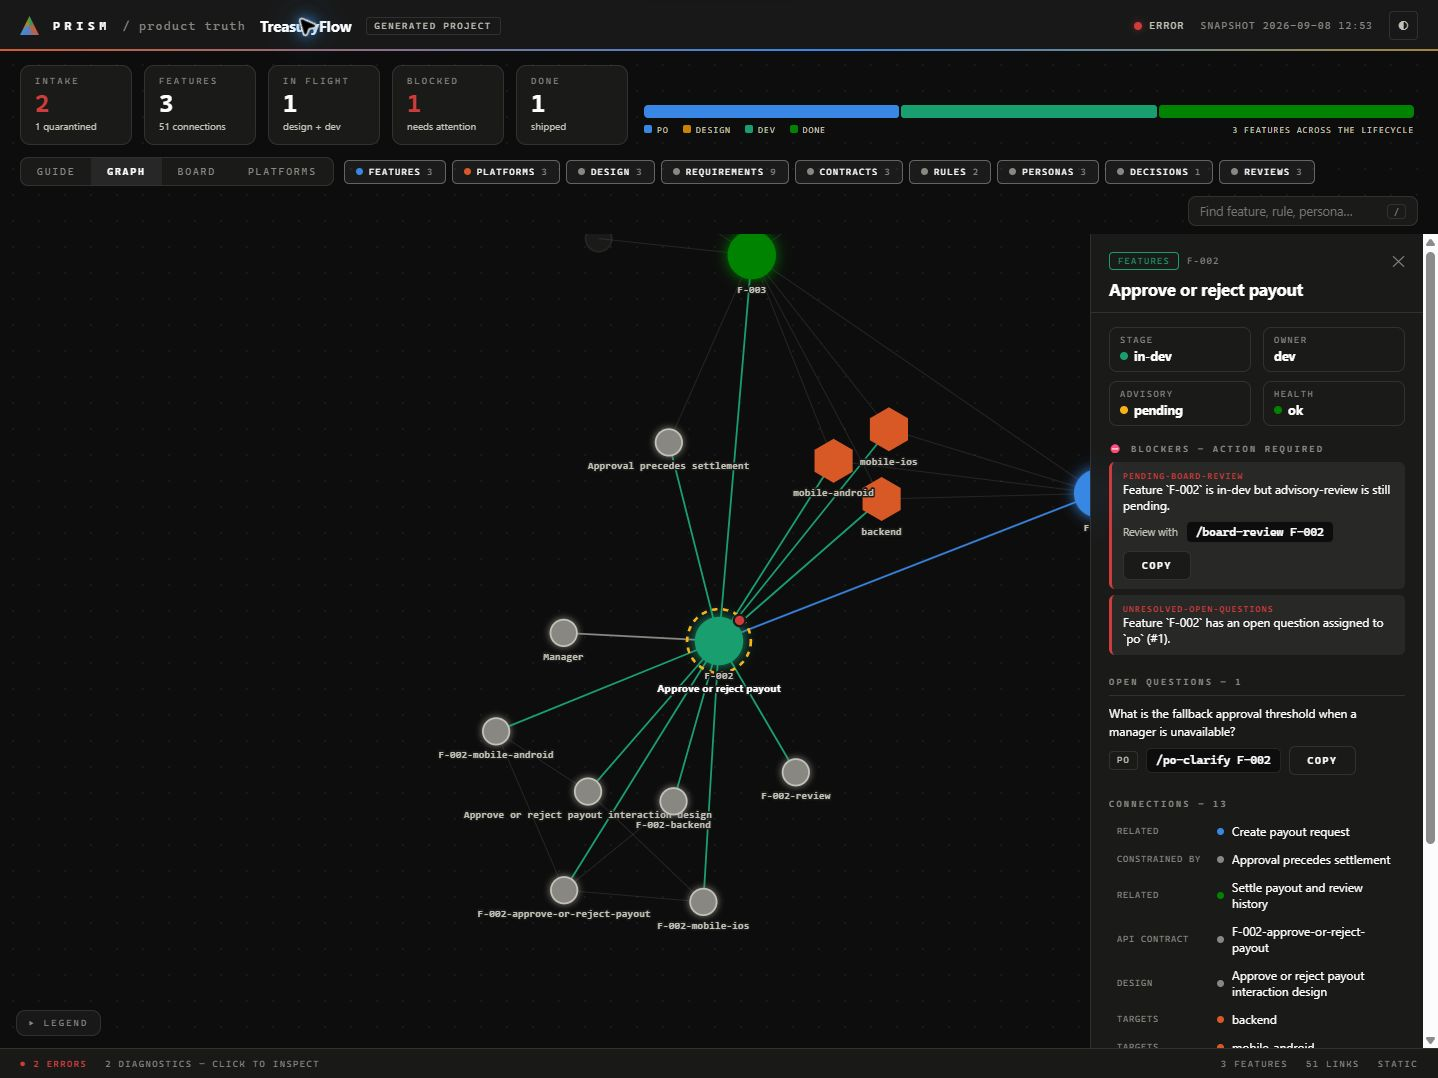
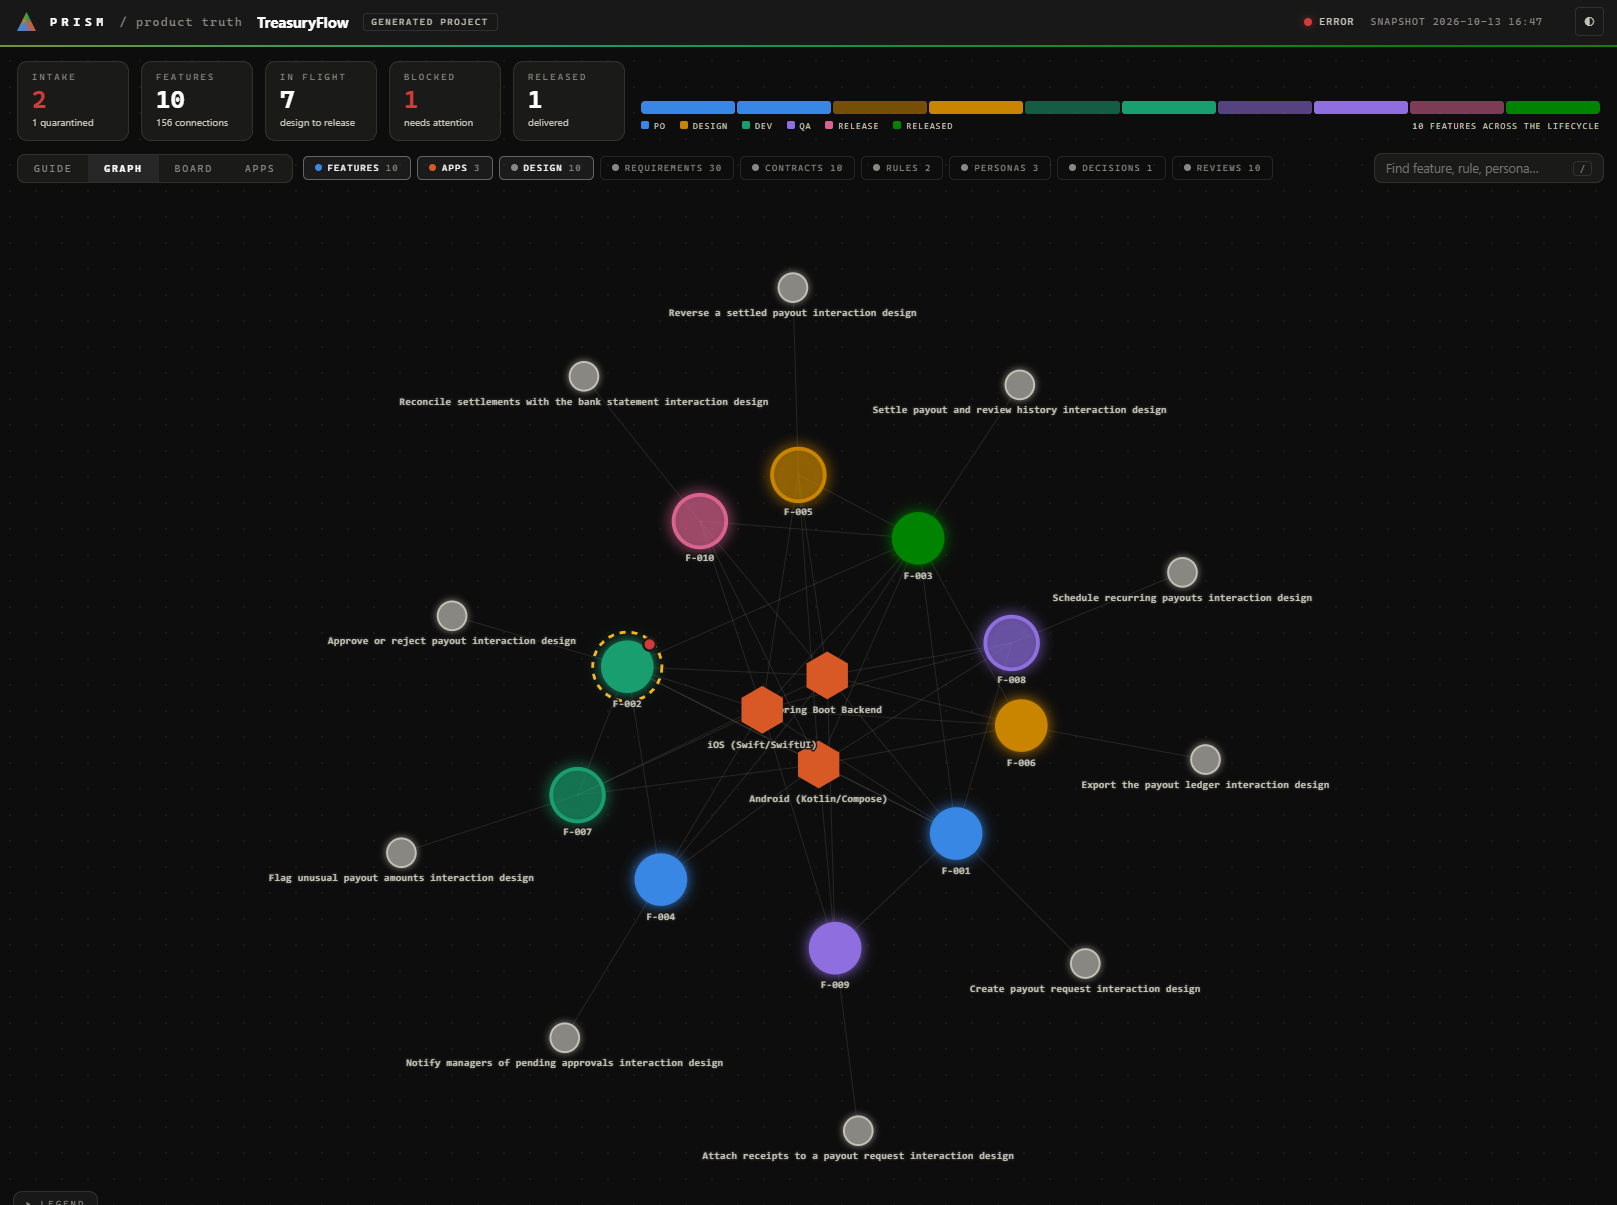
README and docs: new Board and Graph screenshots
The README shows the Board view (lifecycle columns with each feature's app
stages) and the Graph view of the TreasuryFlow fixture; the two dashboard
captures used by the docs are replaced with the same screenshots.

diff --git a/README.md b/README.md
@@ -106,9 +106,11 @@ It prints the board URL, the MCP endpoint (`http://127.0.0.1:8765/mcp`) and a hi
 
 If a step fails, [docs/troubleshooting.md](https://github.com/mo0rti/prism/blob/main/docs/troubleshooting.md) lists the symptom, cause and fix for the common cases. The [shared board guide](https://github.com/mo0rti/prism/blob/main/docs/shared-board.md) covers every command, the MCP tools and recovery of interrupted operations, and [SECURITY.md](https://github.com/mo0rti/prism/blob/main/SECURITY.md) describes what the local service protects.
 
-![Prism wiki visualization Graph view](https://raw.githubusercontent.com/mo0rti/prism/main/docs/media/wiki-dashboard-graph.png)
+![Prism board view: features in their lifecycle columns, each with its apps' stages](https://raw.githubusercontent.com/mo0rti/prism/main/docs/media/wiki-dashboard-board.png)
 
-_Graph view from the synthetic local TreasuryFlow fixture._
+![Prism graph view: features linked to their apps and design pages](https://raw.githubusercontent.com/mo0rti/prism/main/docs/media/wiki-dashboard-graph.png)
+
+_Board and Graph views from the synthetic local TreasuryFlow fixture._
 
 To explore a populated example first, follow the [local wiki visualization guide](https://github.com/mo0rti/prism/blob/main/docs/wiki-visualization.md). It builds a synthetic TreasuryFlow fixture that is safe to regenerate.
 
